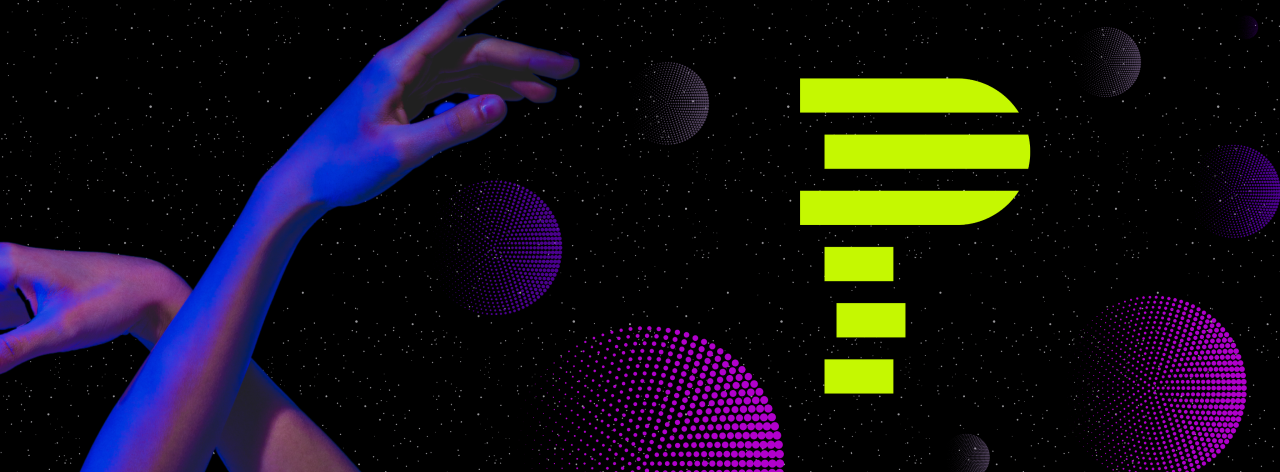
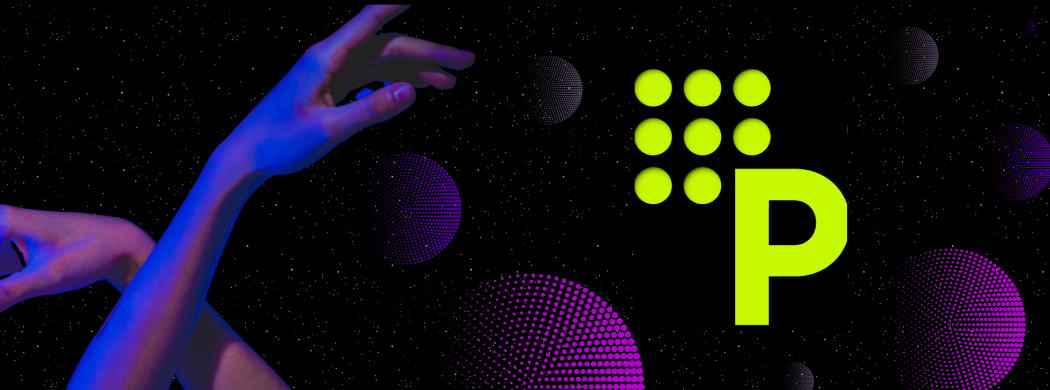
frontend updated

diff --git a/src/components/marketplace/Nft.jsx b/src/components/marketplace/Nft.jsx
@@ -71,31 +71,62 @@ const Nft = () => {
   return (
     <section id="marketplac" className="marketplac">
       <div className="container">
-        <div className="row">
-          {/* using this div and uncommenting the css tyle for this (.marketplac .icon-boxes) makes the card overflow <div className="row icon-boxes"> */}
-          {items.map((item, index) => (
-            <div
-              key={index}
-              className="col-lg-4 col-md-6 d-flex align-items-stretch"
-            >
-              <div className="card">
-                <a href="/details">
-                  <Image src={item.image} className="card-img-top" alt="..." />
-                </a>
-
-                <div className="card-body">
-                  <h5 className="card-title">
-                    <a href="/details">{item.title}</a>
-                  </h5>
-                  <p className="description">
-                    <Image src={item.image} id="collectionprofile" alt="..." />{" "}
-                    <span id="pricetag">{item.profile}</span>
-                  </p>
-                </div>
-              </div>
-            </div>
-          ))}
+        <div className="text-left">
+          <span className="nfth">All</span>
+          <span className="nfth">Art</span>
+          <span className="nfth">Gaming</span>
+          <span className="nfth">Memberships</span>
+          <span className="nfth">PFPs</span>
+          <span className="nfth">Photography</span>
+          <span className="nfth">Music</span>
         </div>
+        <br></br>
+        <section id="nftcollections" className="nftcollections">
+          <div className="container">
+            <div className="section-title">
+              <p>More from this Creator</p>
+            </div>
+
+            <div className="row icon-boxes">
+              {items.map((item, index) => (
+                <div
+                  key={index}
+                  className="col-lg-4 col-md-6 d-flex align-items-stretch"
+                >
+                  <div className="card">
+                    <a href="/details">
+                      <Image
+                        src={item.image}
+                        className="card-img-top"
+                        alt="..."
+                      />
+                    </a>
+
+                    <div className="card-body">
+                      <h5 className="card-title">
+                        <a href="/details">{item.title}</a>
+                      </h5>
+                    </div>
+
+                    <div className="price-container">
+                      <Image src={item.image} id="collectionimgg" alt="..." />{" "}
+                      <div className="price left">
+                        <span style={{ color: "gray" }}>Creator</span>
+                        <br></br>
+                        <span id="pricetag">{item.price}</span>
+                      </div>
+                      <div className="price right">
+                        <span style={{ color: "gray" }}>Highest Bid</span>{" "}
+                        <br></br>
+                        <span id="pricetag">{item.highestbid}</span>
+                      </div>
+                    </div>
+                  </div>
+                </div>
+              ))}
+            </div>
+          </div>
+        </section>
       </div>
     </section>
   );

diff --git a/src/assets/css/style.css b/src/assets/css/style.css
@@ -1000,6 +1000,7 @@ section {
 }
 
 .about-boxes .card {
+  padding: 5px;
   border-radius: 8px;
   border: 1px solid rgba(29, 42, 53, 0.7);
   background-color: rgba(29, 42, 53, 0.7);
@@ -1037,11 +1038,11 @@ section {
 }
 
 .about-boxes .card-title a {
-  color: #c0cad1;
+  color: #c5f801;
 }
 
 .about-boxes .card-title a:hover {
-  color: #c5f801;
+  color: #c0cad1;
 }
 
 .about-boxes .card-text {
@@ -1087,6 +1088,7 @@ section {
 
 .nftcollections .card {
   border-radius: 10px;
+  padding: 5px;
   border: 1px solid rgba(29, 42, 53, 0.7);
   margin-left: 20px;
   margin-right: 20px;
@@ -1125,6 +1127,7 @@ section {
 .nftcollections .card-img-top {
   height: 200px !important;
   width: 100% !important;
+  border-radius: 10px;
 }
 
 .nftcollections .icon-box:hover .title a {
@@ -1167,6 +1170,11 @@ section {
   width: 20px;
   border-radius: 50%;
 }
+#collectionimgg {
+  height: 50px;
+  width: 50px;
+  border-radius: 40%;
+}
 .price-container {
   display: flex;
   justify-content: space-between;
@@ -1179,6 +1187,8 @@ section {
 }
 
 .price.left {
+  padding-right: 20%;
+  text-align: left;
   order: 1;
 }
 
@@ -1513,6 +1523,7 @@ section {
 .marketplac .card-img-top {
   height: 200px !important;
   width: 100% !important;
+  border-radius: 10px;
 }
 
 .marketplac::before {
@@ -1533,6 +1544,7 @@ section {
 }
 
 .marketplac .card {
+  padding: 5px;
   border-radius: 10px;
   border: 1px solid rgba(29, 42, 53, 0.7);
   margin-left: 20px;
@@ -1568,6 +1580,20 @@ section {
 
 .marketplac .icon-box:hover .title a {
   color: #c5f801;
+}
+.marketplac .nfth {
+  color: whitesmoke;
+  background: transparent;
+  border-radius: 20px;
+  border: 2px solid rgba(29, 42, 53, 0.7);
+  font-size: larger;
+  padding: 10px;
+  margin: 5px;
+  cursor: pointer;
+}
+.marketplac .nfth:hover {
+  background-color: #fb5700;
+  color: #000;
 }
 
 @media (max-width: 767px) {

diff --git a/src/components/nftdetails/Morenft.jsx b/src/components/nftdetails/Morenft.jsx
@@ -72,22 +72,23 @@ const Morenft = () => {
                   <h5 className="card-title">
                     <a href="/details">{item.title}</a>
                   </h5>
-                  <p className="description">
+                  {/* <p className="description">
                     <Image src={item.image} id="collectionprofile" alt="..." />{" "}
                     <span id="pricetag">{item.profile}</span>
-                  </p>
+                  </p> */}
                 </div>
 
                 <div className="price-container">
-                  <span className="price left">
-                    <span style={{ color: "gray" }}>price</span>
+                  <Image src={item.image} id="collectionimgg" alt="..." />{" "}
+                  <div className="price left">
+                    <span style={{ color: "gray" }}>Creator</span>
                     <br></br>
                     <span id="pricetag">{item.price}</span>
-                  </span>
-                  <span className="price right">
+                  </div>
+                  <div className="price right">
                     <span style={{ color: "gray" }}>Highest Bid</span> <br></br>
                     <span id="pricetag">{item.highestbid}</span>
-                  </span>
+                  </div>
                 </div>
               </div>
             </div>

diff --git a/src/components/homepage/Homeheader.jsx b/src/components/homepage/Homeheader.jsx
@@ -1,5 +1,5 @@
 import React from "react";
-import partimg from "../../assets/img/partage-log.png";
+import partimg from "../../assets/img/partagelogo-no-bg.png";
 import Image from "next/image";
 
 const Marketplacehead = ({ onClick }) => {
@@ -12,11 +12,17 @@ const Marketplacehead = ({ onClick }) => {
           </div>
           <h1>PARTAGE</h1>
           <h2>Shared Utilities on Near</h2>
-          {/*<div className="d-flex">
-            <a onClick={onClick} className="btn-get-started scrollto">
-              <b>Connect Wallet</b>
+          <div className="markbut">
+            <a onClick={onClick} id="provfolbut">
+              <span>
+                <i
+                  className="bi-rocket-takeoff"
+                  style={{ marginLeft: "5px" }}
+                ></i>
+              </span>{" "}
+              Get Started
             </a>
-          </div>*/}
+          </div>
         </div>
       </section>
     </>
